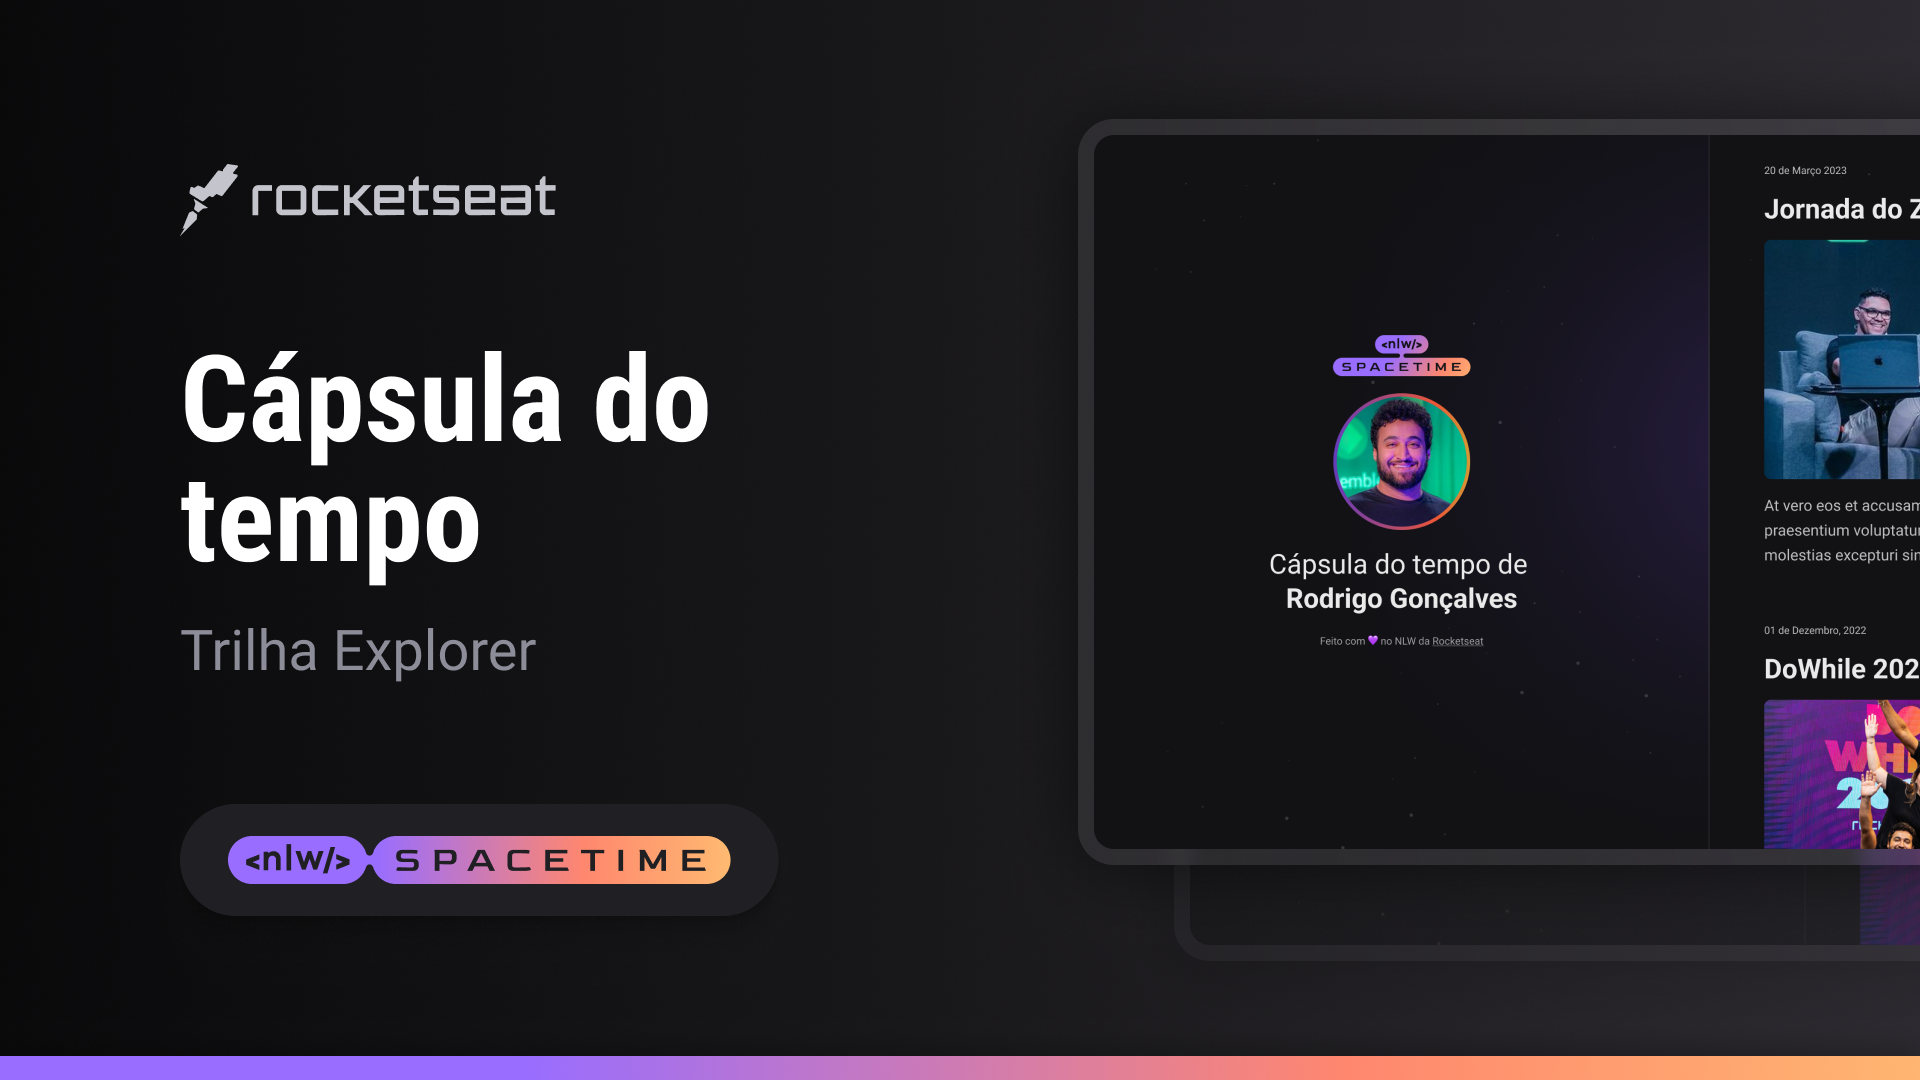
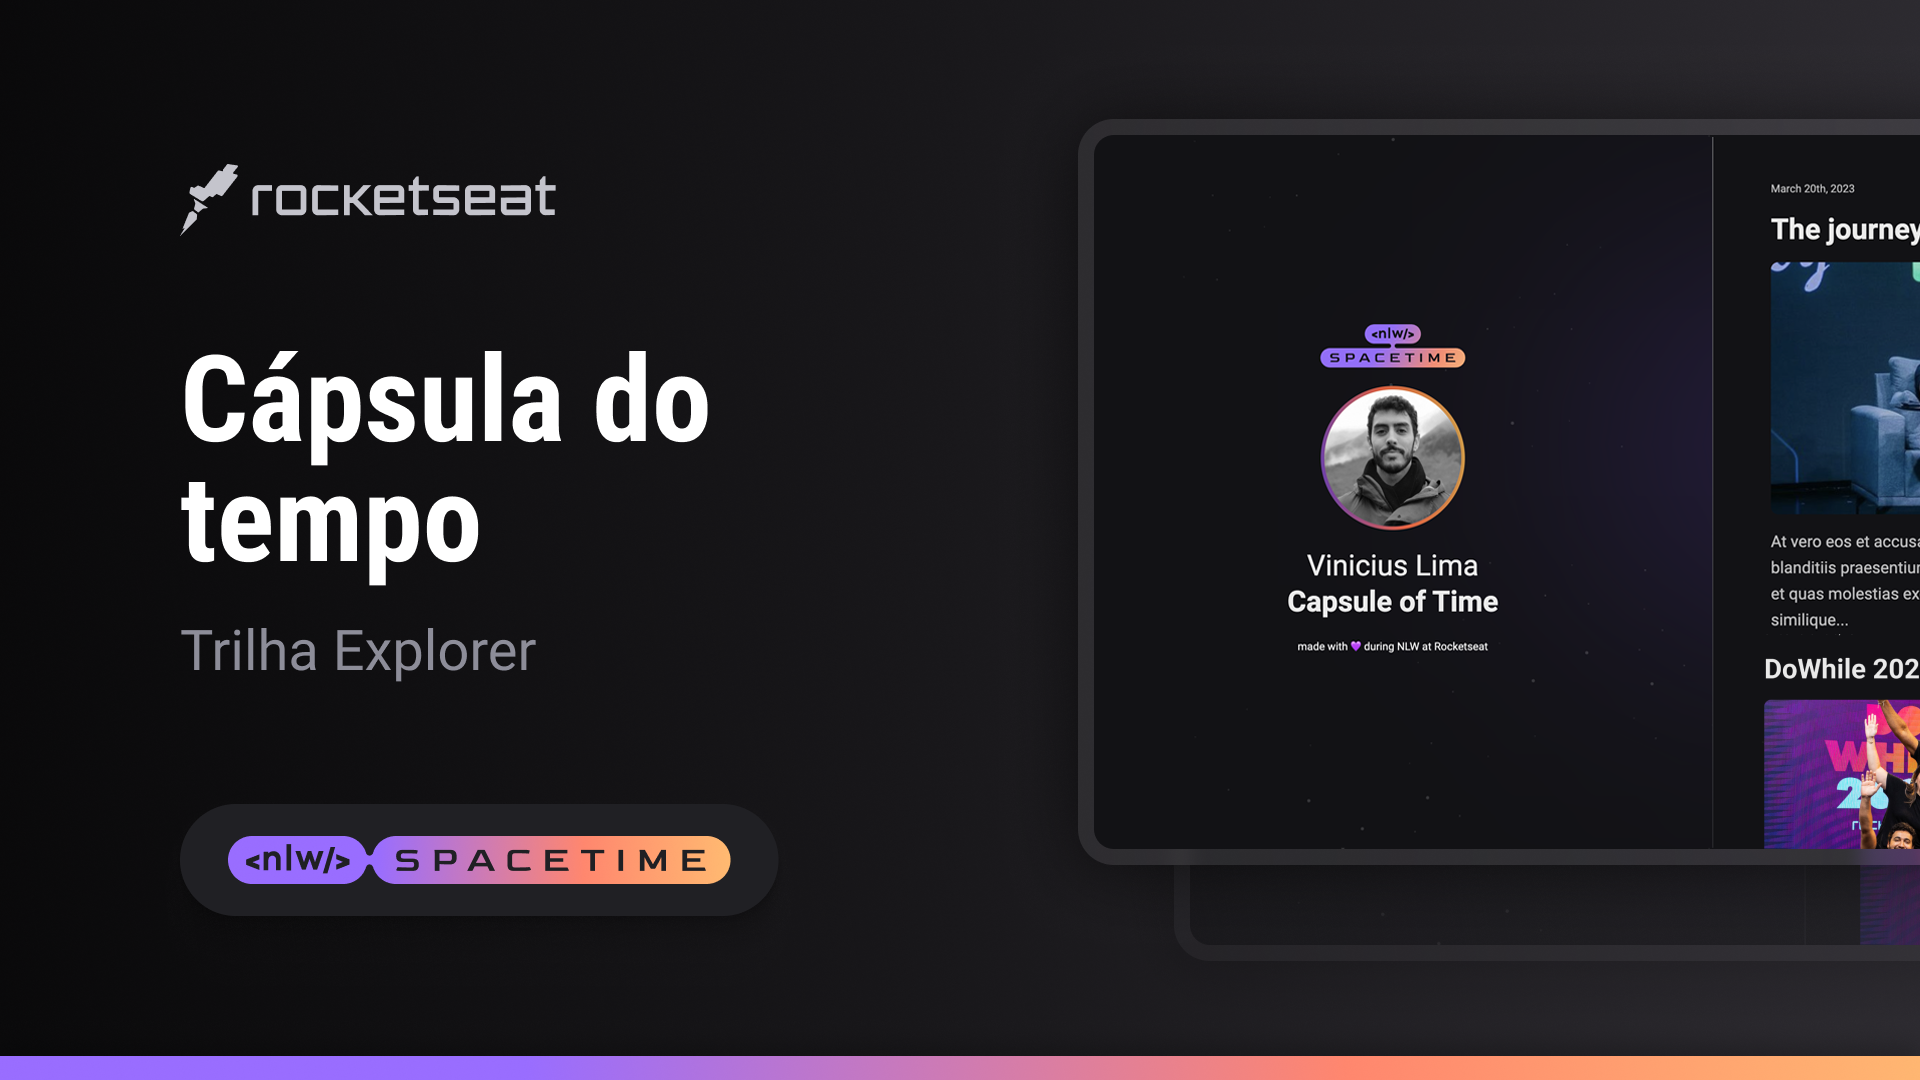
links and images added - medium

Changed region(s): [[0.9062, 0.1528, 1.0, 0.6111], [0.6562, 0.275, 0.8125, 0.6111]]

diff --git a/index.html b/index.html
@@ -36,65 +36,63 @@
 
     <nav>
       <a
-        href="https://www.youtube.com/watch?v=3nz5HkUJaVU&t=2s"
+        href="https://medium.com/@vinidelimaa/win-v-%C3%A9-o-atalho-do-hist%C3%B3rico-da-%C3%A1rea-de-transfer%C3%AAncia-que-voc%C3%AA-n%C3%A3o-sabia-que-j%C3%A1-tinha-ef1972716781"
         target="_blank"
         class="memory"
       >
-        <small>March 20th, 2023</small>
-        <h1>The journey from Zero to First Wave</h1>
+        <small>Aug 28th 2022</small>
+        <h1>Win + V as a life changer shortcut</h1>
         <div>
-          <img
-            src="./assets/jornada.png"
-            alt="two guys seated down talking about programming in front of a macbook"
-          />
+          <img src="./assets/shortcut.jpg" alt="keyboard" />
         </div>
         <p>
-          At vero eos et accusamus et iusto odio dignissimos ducimus qui
-          blanditiis praesentium voluptatum deleniti atque corrupti quos dolores
-          et quas molestias excepturi sint occaecati cupiditate non provident,
-          similique...
+          Unlock the secrets of an exceptional Windows system shortcut in this
+          enlightening Medium article. Take a leap and click on the image to
+          delve into a world of hidden efficiency and elevate your Windows
+          experience! Hit the image to discover more.
         </p>
       </a>
 
       <a
-        href="https://www.youtube.com/watch?v=3nz5HkUJaVU&t=2s"
+        href="https://medium.com/@vinidelimaa/var-em-css-500ce97cc7ac"
         target="_blank"
         class="memory"
       >
-        <small>March 20th, 2023</small>
-        <h1>The journey from Zero to First Wave</h1>
+        <small>Dec 10th 2021</small>
+        <h1>Variables are the new CSS kings</h1>
         <div>
           <img
-            src="./assets/jornada.png"
-            alt="two guys seated down talking about programming in front of a macbook"
+            src="./assets/variables.jpg"
+            alt="monitor screen showing some CSS root code"
           />
         </div>
         <p>
-          At vero eos et accusamus et iusto odio dignissimos ducimus qui
-          blanditiis praesentium voluptatum deleniti atque corrupti quos dolores
-          et quas molestias excepturi sint occaecati cupiditate non provident,
-          similique...
+          Why use variables in Cascading Style Sheets? After using the full name
+          just so we don't forget, let's get straight to the point. The answer
+          is crystal clear: variables in CSS bring convenience that you'll hold
+          dear, captivating you with their power to transcend and extend your
+          styles. Read it more!
         </p>
       </a>
 
       <a
-        href="https://www.youtube.com/watch?v=3nz5HkUJaVU&t=2s"
+        href="https://medium.com/@vinidelimaa/minha-imagem-html-sumiu-a7a7acd6cb08"
         target="_blank"
         class="memory"
       >
-        <small>March 20th, 2023</small>
-        <h1>The journey from Zero to First Wave</h1>
+        <small>Dec 10th 2021</small>
+        <h1>My HTML image has simply disappeared</h1>
         <div>
           <img
-            src="./assets/jornada.png"
-            alt="two guys seated down talking about programming in front of a macbook"
+            src="./assets/html.jpg"
+            alt="red html symbol on a light purple background"
           />
         </div>
         <p>
-          At vero eos et accusamus et iusto odio dignissimos ducimus qui
-          blanditiis praesentium voluptatum deleniti atque corrupti quos dolores
-          et quas molestias excepturi sint occaecati cupiditate non provident,
-          similique...
+          If you're struggling to fix an error for hours and feeling emotionally
+          overwhelmed, take a moment to read this article. It's frustrating when
+          your images disappear from the HTML, but this text can help you
+          prevent that from happening again.
         </p>
       </a>
     </nav>
